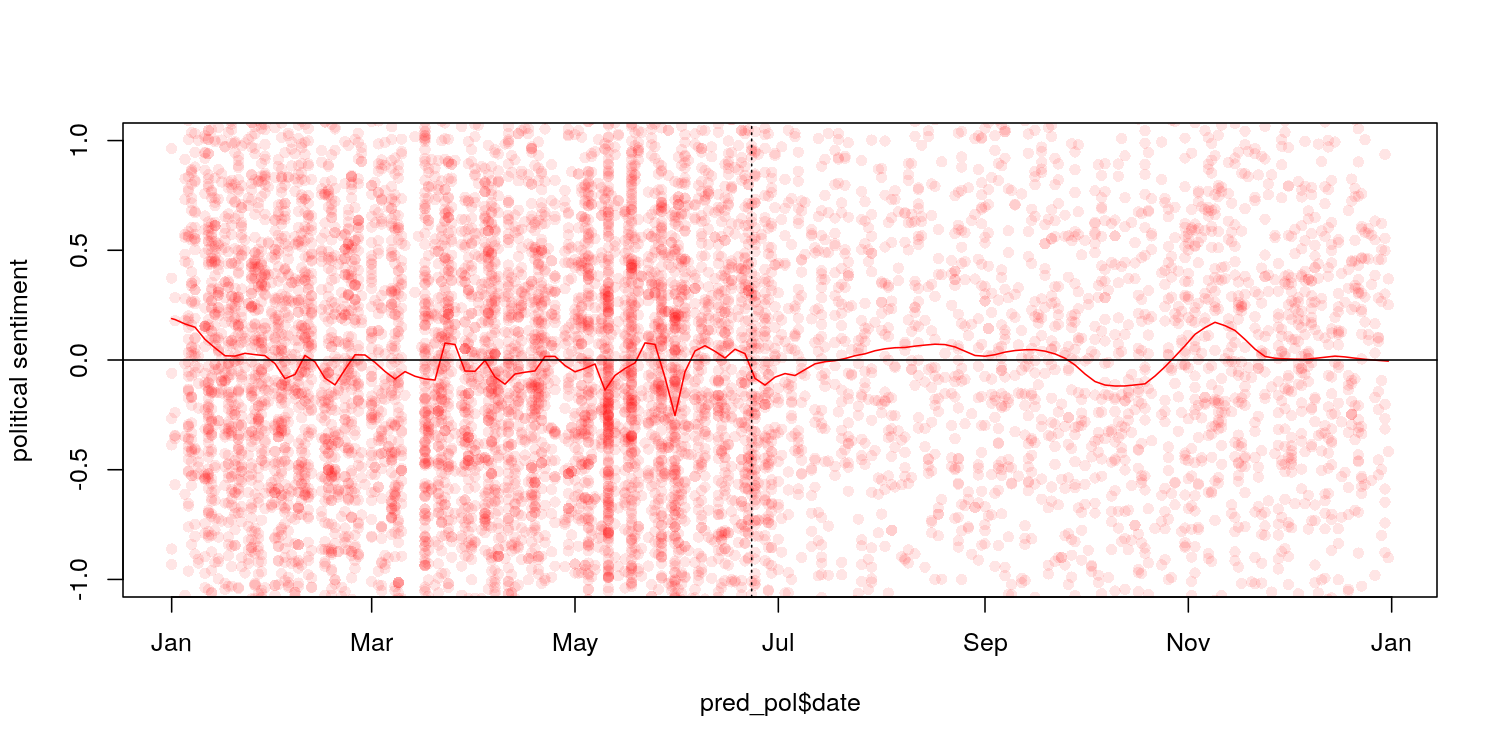
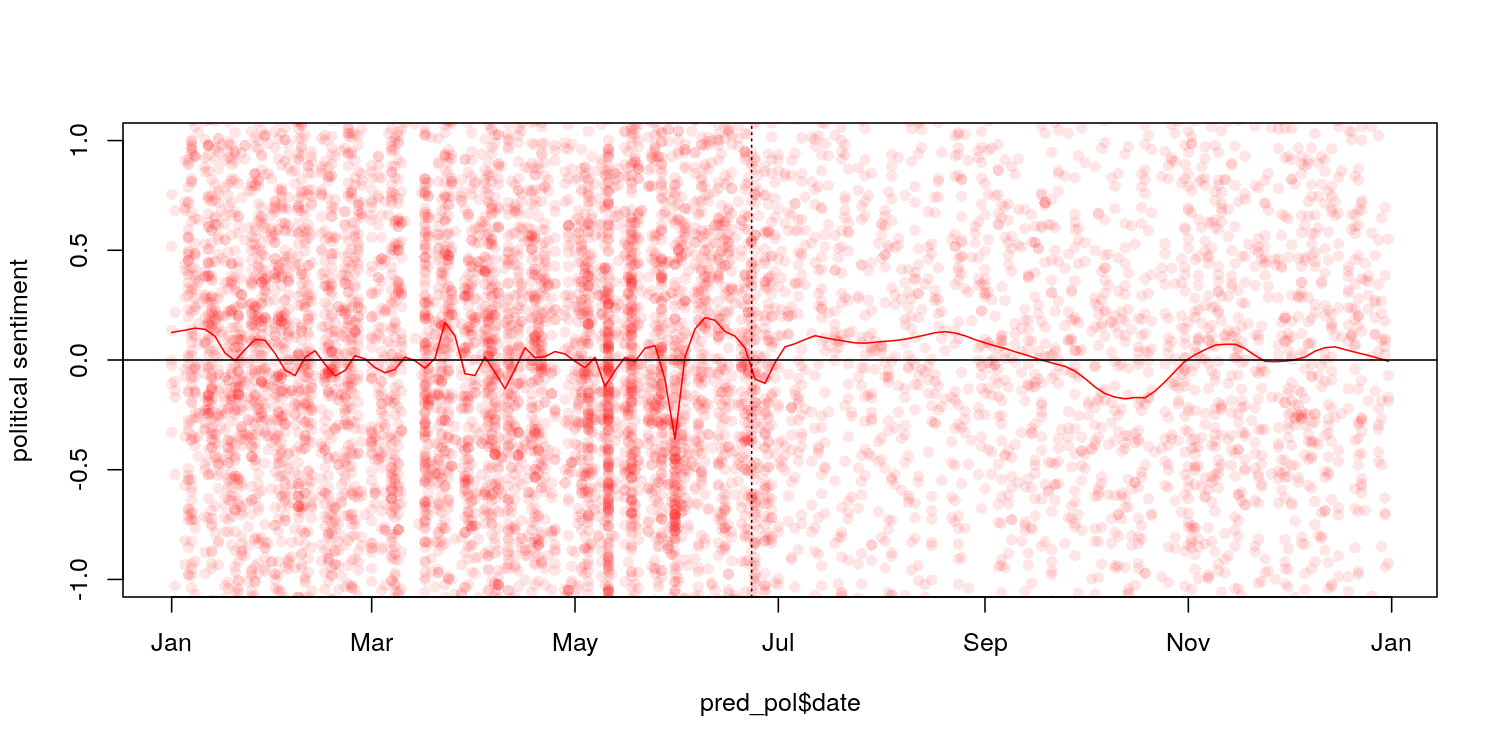
Update README

Changed region(s): [[0.092, 0.1533, 0.9507, 0.7973]]

diff --git a/README.md b/README.md
@@ -64,7 +64,7 @@ toks_sent <- corp %>%
     tokens(remove_punct = TRUE)
 mt_sent <- toks_sent %>% 
     dfm(remove = stopwords()) %>% 
-    dfm_select('^[0-9a-zA-Z]+$', valuetype = 'regex') %>% 
+    dfm_select('^[a-zA-Z]+$', valuetype = 'regex', min_nchar = 2) %>% 
     dfm_trim(min_termfreq = 5)
 
 #' sentiment model on economy
@@ -103,27 +103,27 @@ LSS identifies domain specific words and weight them by
 head(coef(lss_eco), 20) # most positive words
 ```
 
-    ##    positive     markets    emerging   expecting        drag       weigh 
-    ##  0.05214424  0.03698609  0.03501609  0.03403731  0.03342814  0.03301794 
-    ## challenging  management        asia     impacts sustainable      senior 
-    ##  0.03131688  0.03109008  0.03082225  0.02873497  0.02821411  0.02779674 
-    ## cooperation      french  powerhouse       stock     chinese       china 
-    ##  0.02757589  0.02742529  0.02717255  0.02711204  0.02644329  0.02633488 
-    ##   efficient     slowing 
-    ##  0.02630425  0.02609119
+    ##    positive   expecting    emerging   professor sustainable      decent 
+    ##  0.04198759  0.04041890  0.03913838  0.03453550  0.03438302  0.03208933 
+    ##      oxford       stock        prof    academic     markets   efficient 
+    ##  0.03161188  0.03147390  0.03014006  0.02986570  0.02947902  0.02903777 
+    ##      failed        asia  management         hit consultancy       slide 
+    ##  0.02804538  0.02780202  0.02704815  0.02670997  0.02659349  0.02640886 
+    ##     impacts       china 
+    ##  0.02586232  0.02559905
 
 ``` r
 tail(coef(lss_eco), 20) # most negative words
 ```
 
-    ##   suggesting      created     downbeat    inflation       norway 
-    ##  -0.03082917  -0.03097888  -0.03111960  -0.03244584  -0.03292088 
-    ## implications      deficit       single         data      cutting 
-    ##  -0.03363656  -0.03451063  -0.03576445  -0.03814103  -0.03854116 
-    ## consequences    dependent          low         hike unemployment 
-    ##  -0.03874300  -0.03969037  -0.04090138  -0.04119885  -0.04393768 
-    ##     interest         rate          rba        rates     negative 
-    ##  -0.04396777  -0.04691304  -0.04920256  -0.04934219  -0.05966217
+    ##       brexit        pound    situation         data         rise 
+    ##  -0.03378953  -0.03410171  -0.03439309  -0.03457411  -0.03495389 
+    ##       impact     pantheon implications      cutting     downbeat 
+    ##  -0.03535304  -0.03546813  -0.03565484  -0.03590826  -0.03597810 
+    ##         debt     interest    suggested     suggests         hike 
+    ##  -0.03636211  -0.03762701  -0.03864661  -0.03928283  -0.04396055 
+    ##        rates         rate unemployment          rba     negative 
+    ##  -0.04638569  -0.04689606  -0.04810378  -0.05048054  -0.06004318
 
 #### Political words
 
@@ -131,27 +131,29 @@ tail(coef(lss_eco), 20) # most negative words
 head(coef(lss_pol), 20) # most positive words
 ```
 
-    ##          court constitutional           hong         robert      activists 
-    ##     0.03683695     0.03448106     0.03303420     0.02960304     0.02919637 
-    ##       rousseff         senior          north              f   interference 
-    ##     0.02833502     0.02779674     0.02669770     0.02630391     0.02558804 
-    ##         highly           near       leftwing       involved           case 
-    ##     0.02538547     0.02536469     0.02484337     0.02452125     0.02407098 
-    ##    westminster     consultant        correct         guests      professor 
-    ##     0.02388269     0.02272020     0.02219132     0.02162323     0.02160143
+    ##         correct  constitutional     commentator          battle 
+    ##      0.04617497      0.03838595      0.03682553      0.03494310 
+    ##       professor           court      university          killed 
+    ##      0.03453550      0.03383873      0.02973055      0.02935159 
+    ##            near         process        lecturer representatives 
+    ##      0.02786398      0.02731266      0.02720056      0.02698998 
+    ##           laura         elected       relatives          robert 
+    ##      0.02482720      0.02462219      0.02432675      0.02395674 
+    ##          career            hong         reasons        involved 
+    ##      0.02390902      0.02288129      0.02280180      0.02272463
 
 ``` r
 tail(coef(lss_pol), 20) # most negative words
 ```
 
-    ## economically     religion    primarily  calculation        union 
-    ##  -0.02050284  -0.02214345  -0.02221894  -0.02229977  -0.02313443 
-    ##    landscape       access    sensitive    departure    countries 
-    ##  -0.02314414  -0.02331452  -0.02366598  -0.02387345  -0.02504337 
-    ##     personal        often      happens       brexit     dictated 
-    ##  -0.02658480  -0.02713668  -0.02716319  -0.02764422  -0.02847745 
-    ##        dirty         data    movements consequences          cut 
-    ##  -0.02933004  -0.03814103  -0.03834440  -0.03874300  -0.04932111
+    ##     increase     purposes         talk    motivated       showed 
+    ##  -0.02656812  -0.02661012  -0.02661925  -0.02663048  -0.02764339 
+    ##     promises  calculation consequences          row        often 
+    ##  -0.02847466  -0.02879053  -0.02903463  -0.02939308  -0.03084510 
+    ##  complicated        dirty    movements       debate   discussion 
+    ##  -0.03151053  -0.03228046  -0.03235362  -0.03269543  -0.03360233 
+    ##       brexit         data    departure    dominated          cut 
+    ##  -0.03378953  -0.03457411  -0.03629428  -0.03700214  -0.05993724
 
 ## Predict sentiment of news
 
